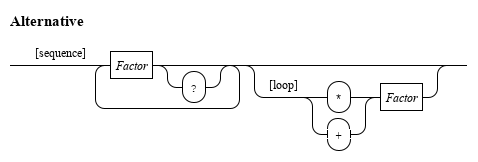
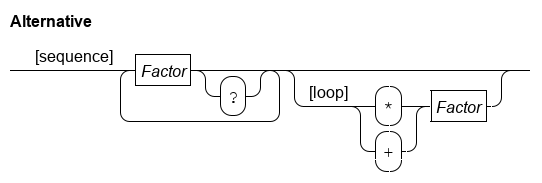
#63 Changed rail diagram default configuration.
- Better readable fonts.
 - Font sizes that better match our AsciiDoc style.

Changed region(s): [[0.0293, 0.2778, 0.9665, 0.9568], [0.0, 0.0617, 0.1757, 0.1852]]

diff --git a/common/org.eclipse.escet.common.raildiagrams/src/org/eclipse/escet/common/raildiagrams/Configuration.java b/common/org.eclipse.escet.common.raildiagrams/src/org/eclipse/escet/common/raildiagrams/Configuration.java
@@ -85,8 +85,8 @@ public class Configuration {
                 "branch-label.padding.bottom:  5", //
                 "branch-label.min-width:       5", //
                 "branch-label.text.color:      0 0 0", //
-                "branch-label.text.font:       Serif", //
-                "branch-label.text.font.size:  12", //
+                "branch-label.text.font:       SansSerif", //
+                "branch-label.text.font.size:  16", //
                 "branch-label.text.font.style: plain", //
 
                 // Empty node.
@@ -98,8 +98,8 @@ public class Configuration {
 
                 // Header font and text.
                 "diagram-header.text.color:      0 0 0", //
-                "diagram-header.text.font:       Serif", //
-                "diagram-header.text.font.size:  15", //
+                "diagram-header.text.font:       SansSerif", //
+                "diagram-header.text.font.size:  16", //
                 "diagram-header.text.font.style: bold", //
 
                 // 'terminal' name properties.
@@ -110,7 +110,7 @@ public class Configuration {
                 "terminal.box.linewidth: 1.0", //
                 "terminal.text.color:    0 0 0", //
                 "terminal.text.font:       Monospaced", //
-                "terminal.text.font.size:  12", //
+                "terminal.text.font.size:  18", //
                 "terminal.text.font.style: plain", //
 
                 // 'meta-terminal' name properties.
@@ -120,8 +120,8 @@ public class Configuration {
                 "meta-terminal.box.color:     0 0 0", //
                 "meta-terminal.box.linewidth: 1.0", //
                 "meta-terminal.text.color:    0 0 0", //
-                "meta-terminal.text.font:       Serif", //
-                "meta-terminal.text.font.size:  12", //
+                "meta-terminal.text.font:       SansSerif", //
+                "meta-terminal.text.font.size:  16", //
                 "meta-terminal.text.font.style: plain", //
 
                 // 'nonterminal' name properties.
@@ -131,8 +131,8 @@ public class Configuration {
                 "nonterminal.box.color:       0 0 0", //
                 "nonterminal.box.linewidth:   1.0", //
                 "nonterminal.text.color:      0 0 0", //
-                "nonterminal.text.font:       Serif", //
-                "nonterminal.text.font.size:  12", //
+                "nonterminal.text.font:       SansSerif", //
+                "nonterminal.text.font.size:  16", //
                 "nonterminal.text.font.style: italic", //
 
                 // Token text properties:
